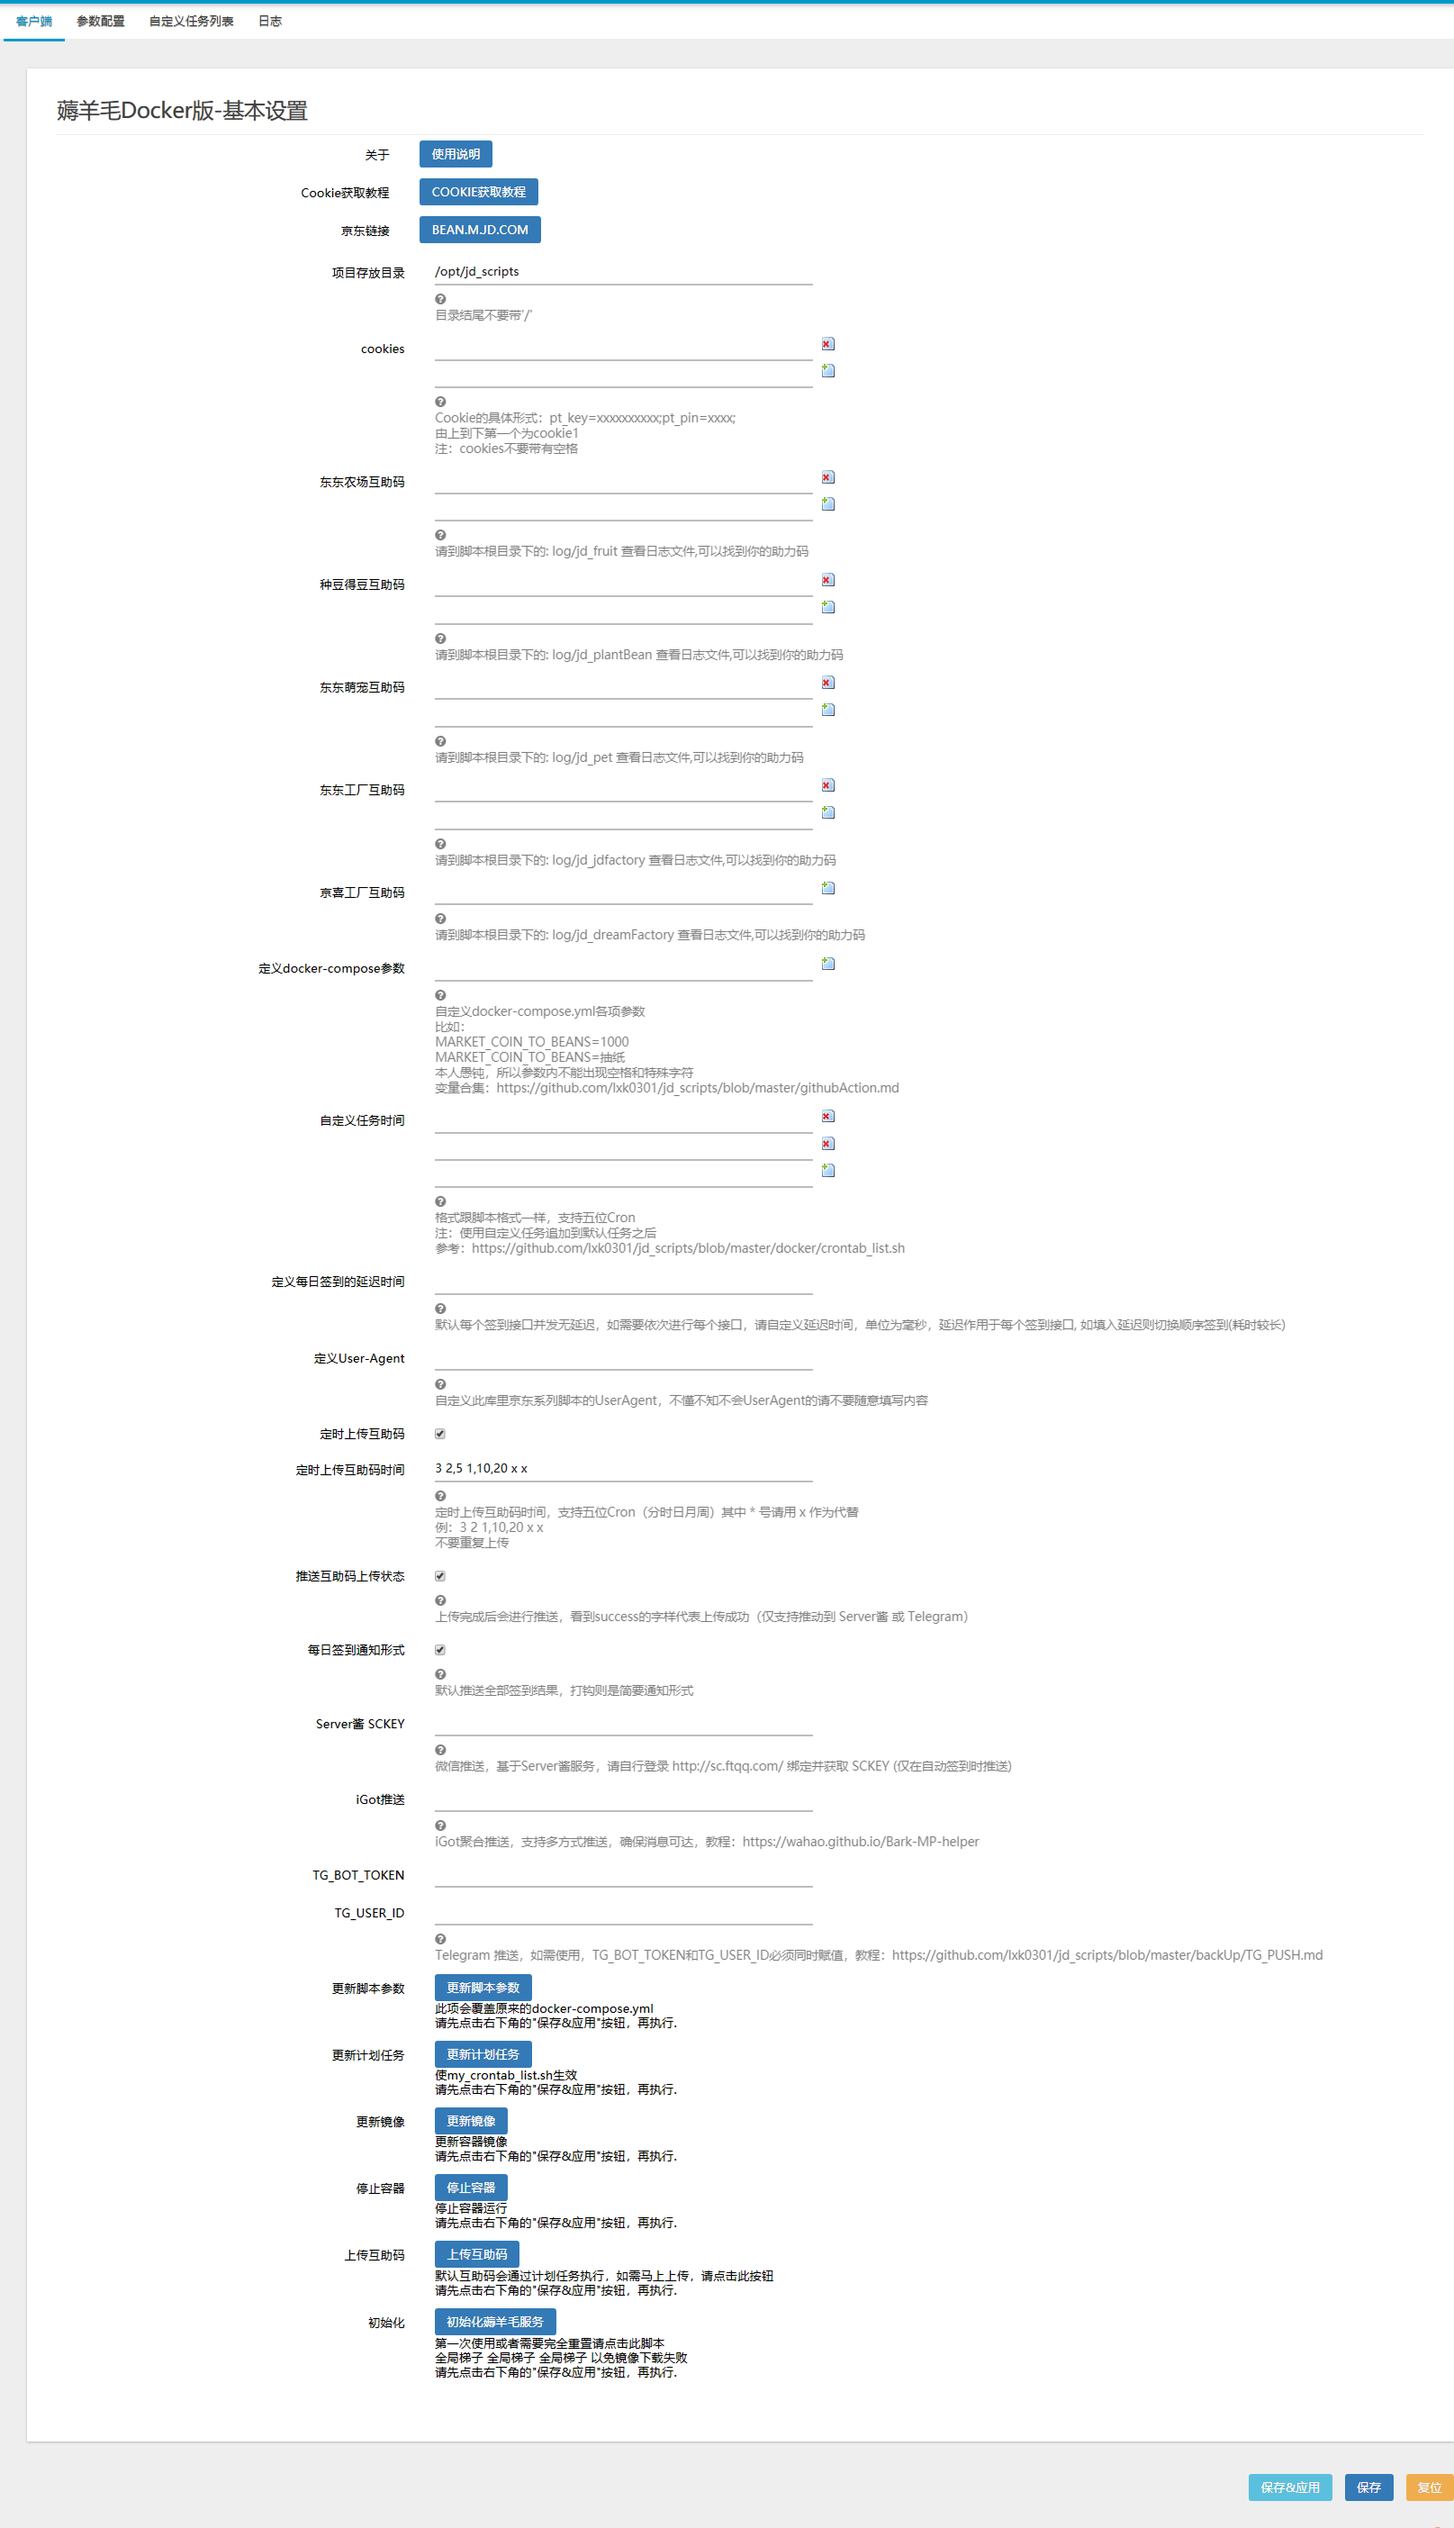
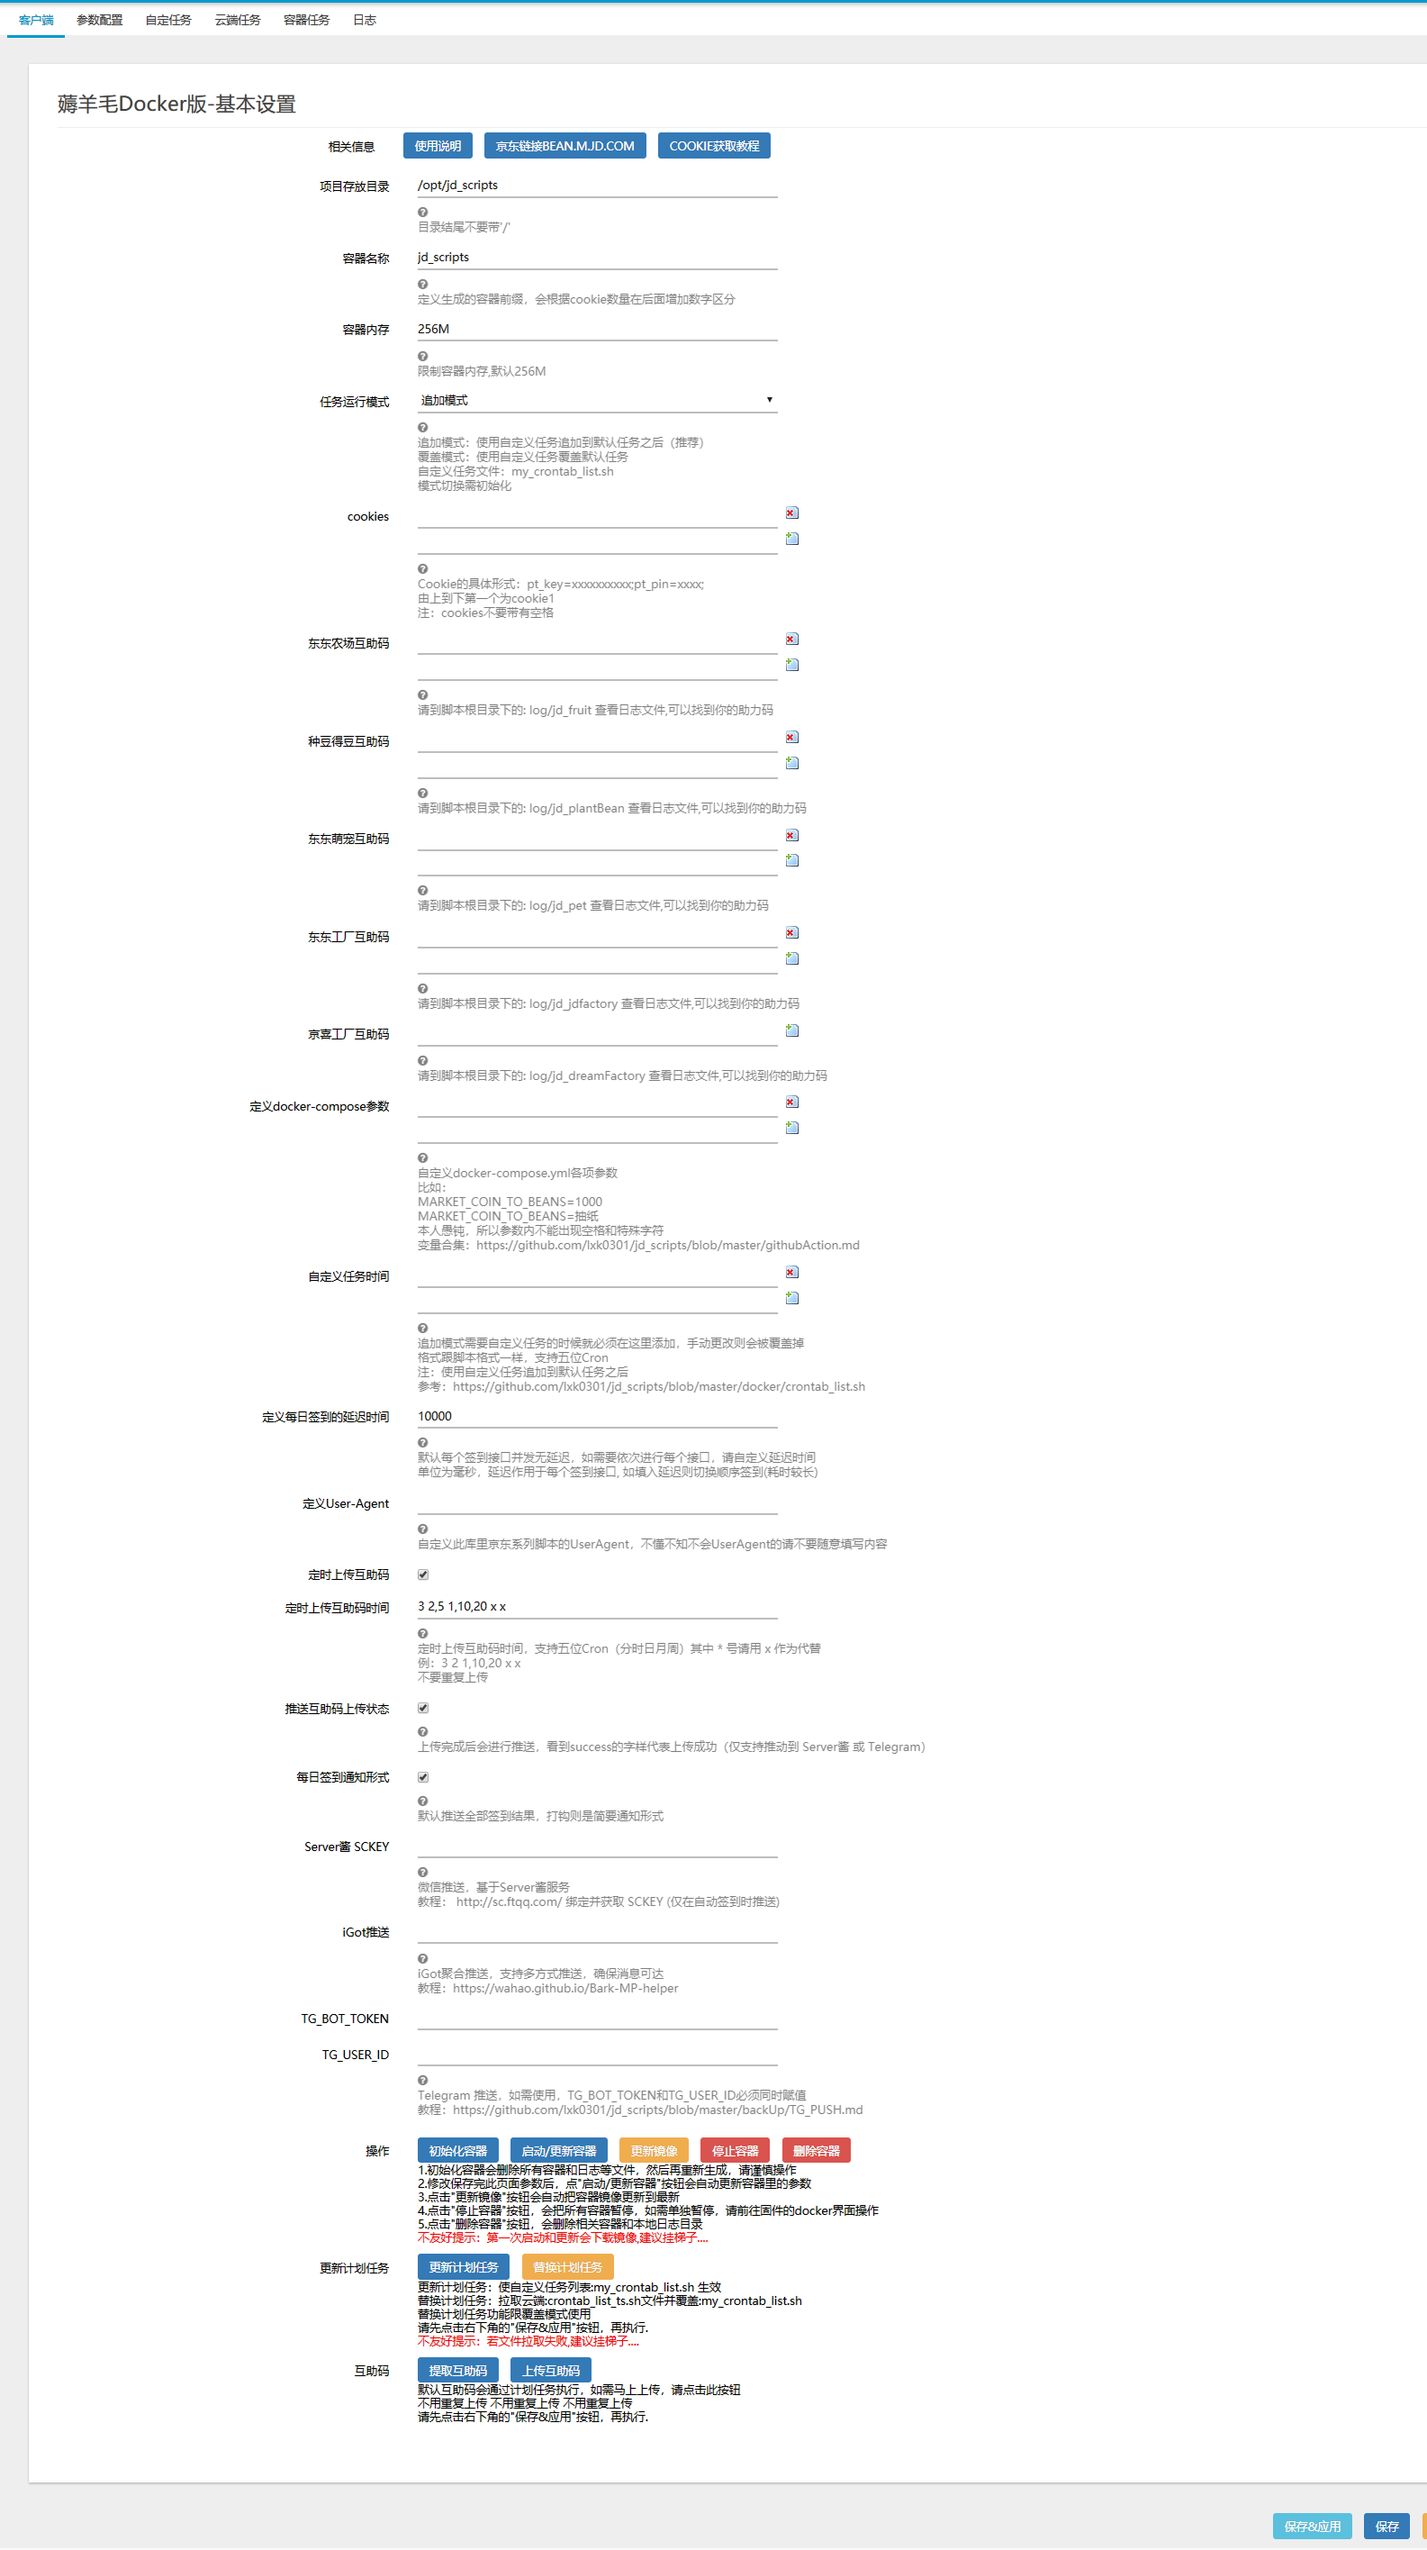
初始化增加cookies检测

Changed region(s): [[0.2164, 0.031, 0.6492, 0.9608], [0.0, 0.0, 0.2164, 0.062], [0.8347, 0.9608, 1.0, 1.0]]

diff --git a/luasrc/view/a-wool/update_service.htm b/luasrc/view/a-wool/update_service.htm
@@ -118,12 +118,14 @@
 		value="停止容器">
 		<input class="cbi-button cbi-button-remove" id="del_container" type="button" size="0"
 		value="删除容器">
+		<br>
 		<br>1.初始化容器会删除所有容器和日志等文件，然后再重新生成，请谨慎操作
 		<br>2.修改保存完此页面参数后，点"启动/更新容器"按钮会自动更新容器里的参数
 		<br>3.点击"更新镜像"按钮会自动把容器镜像更新到最新
 		<br>4.点击"停止容器"按钮，会把所有容器暂停，如需单独暂停，请前往固件的docker界面操作
 		<br>5.点击"删除容器"按钮，会删除相关容器和本地日志目录
-		<br><font color="red">不友好提示:第一次启动和更新会下载镜像,建议挂梯子....</font>
+		<br><font color="red">注：初始化前请先配置好cookies，否则会初始化失败</font>
+		<br><font color="red">不友好提示：第一次启动和更新会下载镜像,建议挂梯子....</font>
 </div>
 
 <%+cbi/valuefooter%>
@@ -133,8 +135,14 @@
 <div class="cbi-value-field">
 	<input class="cbi-button cbi-button-reload" id="update_cron" type="button" size="0"
 		value="更新计划任务">
-		<br>使my_crontab_list.sh生效
+	<input class="cbi-button cbi-button-reset" id="update_list" type="button" size="0"
+		value="替换计划任务">
+		<br>
+		<br>更新计划任务：使自定义任务列表:my_crontab_list.sh 生效
+		<br>替换计划任务：拉取云端:crontab_list_ts.sh文件并覆盖:my_crontab_list.sh
+		<br>替换计划任务功能限覆盖模式使用
 		<br>请先点击右下角的"保存&应用"按钮，再执行.
+		<br><font color="red">不友好提示：若文件拉取失败,建议挂梯子....</font>
 </div>
 
 
@@ -147,8 +155,10 @@
 		value="提取互助码">
 	<input class="cbi-button cbi-button-reload" id="update_scode" type="button" size="0"
 		value="上传互助码">
+		<br>
 		<br>默认互助码会通过计划任务执行，如需马上上传，请点击此按钮
 		<br>请先点击右下角的"保存&应用"按钮，再执行.
+		<br><font color="red">不用重复上传 不用重复上传 不用重复上传.</font>
 </div>
 <%+cbi/valueheader%>
 <%+cbi/valuefooter%>
@@ -220,6 +230,29 @@
 		});
 		return false;
 		});		
+
+	//显示并开始刷新
+	function update_list() {
+		$("body").append(modal);
+		$(".modals-bg").show();
+		setTimeout("get_realtime_log();", 500);
+	}
+	//拉取计划任务列表按钮
+	$("#update_list").click(function () {
+	var data = {
+				good: "update_lt"
+				}
+		$.ajax({
+			type: "post",
+			url: SAVE_URL,
+			//dataType : "json",
+			data : data,
+			success: function (d) {
+					update_list();
+			}
+		});
+		return false;
+		});
 
 	//显示并开始刷新
 	function update_pull() {

diff --git a/luasrc/view/a-wool/cookie_tools.htm b/luasrc/view/a-wool/cookie_tools.htm
@@ -2,10 +2,11 @@
 
 <label class="cbi-value-title">相关信息</label>
 <div class="cbi-value-field">
-	<input type="button" class="cbi-button cbi-input-reload" value="使用说明" onclick="javascript:window.open('https://github.com/XiaYi1002','target');" />
-<input type="button" class="cbi-button cbi-input-reload" value="京东链接bean.m.jd.com" onclick="javascript:window.open('https://bean.m.jd.com','target');" />
-<input type="button" class="cbi-button cbi-input-reload" value="Cookie获取教程" onclick="javascript:window.open('https://github.com/lxk0301/jd_scripts/blob/master/backUp/GetJdCookie.md','target');" /><br>
-
+	<input type="button" class="cbi-button cbi-input-reload" value="使用说明" onclick="javascript:window.open('https://github.com/XiaYi1002/luci-app-a-wool','target');" />
+<input type="button" class="cbi-button cbi-input-reload" value="京东链接" onclick="javascript:window.open('https://bean.m.jd.com','target');" />
+<input type="button" class="cbi-button cbi-input-reload" value="Cookie获取教程" onclick="javascript:window.open('https://github.com/lxk0301/jd_scripts/blob/master/backUp/GetJdCookie.md','target');" />
+<br>京东地址：bean.m.jd.com
+<br>抓完cookies不要点击退出账户，会影响cookies时效性
 </div>
 <%+cbi/valuefooter%>
 <%+cbi/valueheader%>

diff --git a/README.md b/README.md
@@ -1,34 +1,45 @@
 # luci-app-a-wool
 
-本插件基于chongshengB修改的京东签到插件（薅羊毛服务）
+协同 chongshengB 改的薅羊毛Docker1版 
 
-半吊子一个，只按自己需求进行一些列魔改，代码基本靠百度，所以代码看起来是那么的杂乱无章与繁琐
+半吊子一个，代码基本靠百度，所以我写的代码看起来是那么的杂乱，那么的白。（惭愧
 
 # 介绍
 
-用于管理openwrt下docker版京东签到脚本
+用于管理openwrt下docker1版京东签到脚本
 
-适配Docker1方法：
+适配Docker1：
 
 https://github.com/lxk0301/jd_scripts
-
-默认开启追加自定义任务计划
 
 # 安装
 
 需要 docker-compose 需要 docker-compose 需要 docker-compose 重要的事情说三遍
 
-免docker-compose版本：
+免docker-compose版本：（已停更）
 
 https://github.com/XiaYi1002/luci-app-x-wool
 
-本人只有ARM设备，所以只在V Plus（aarch64）运行，理论上N1之类的ARM设备都可以运行，前提是要有docker，当然也要有足够的空间，其他版本可自行编译（插件这玩意我也不懂，自行测试）
+因本人只有ARM设备，所以只在V Plus（aarch64）运行，理论上N1之类的ARM设备都可以运行，前提是要有docker-compose，当然也要有足够的空间，其他版本可自行编译（插件这玩意我也不懂，自行测试）
 
 # 功能
 
-自行体验
+便于管理
+
+多开并发
+
+设定容器内存
+
+相关变量自定义
+
+互助码自动上传
+
+两种任务计划运行模式
+追加模式：追加自定义任务到默认任务
+覆盖模式：使用自定义覆盖默认任务
 
 ![image](https://github.com/XiaYi1002/luci-app-a-wool/blob/master/img/main.png)
+
 
 # 非常感谢
 
